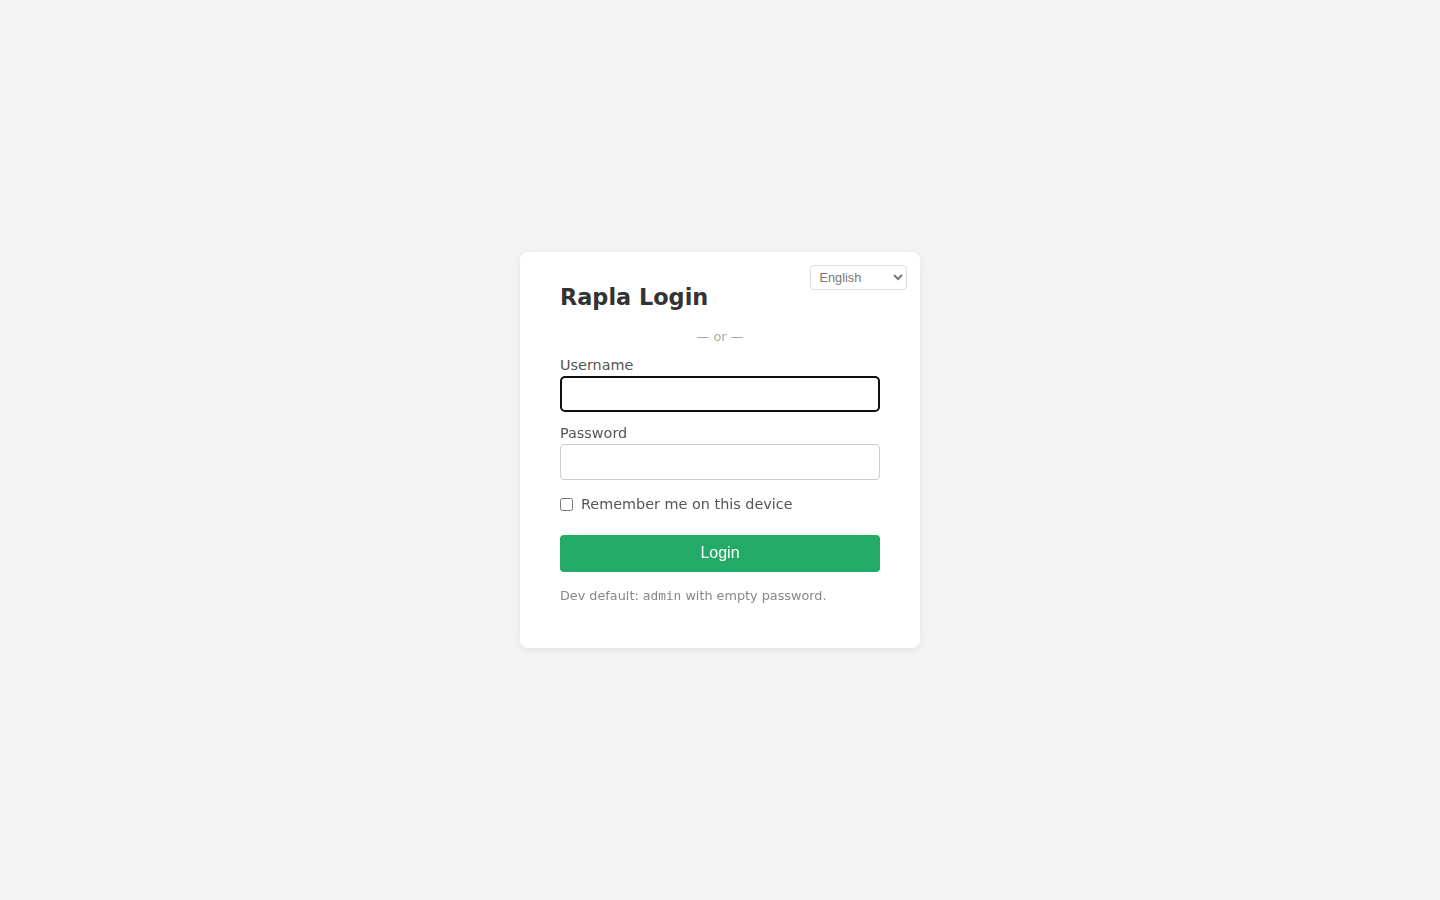
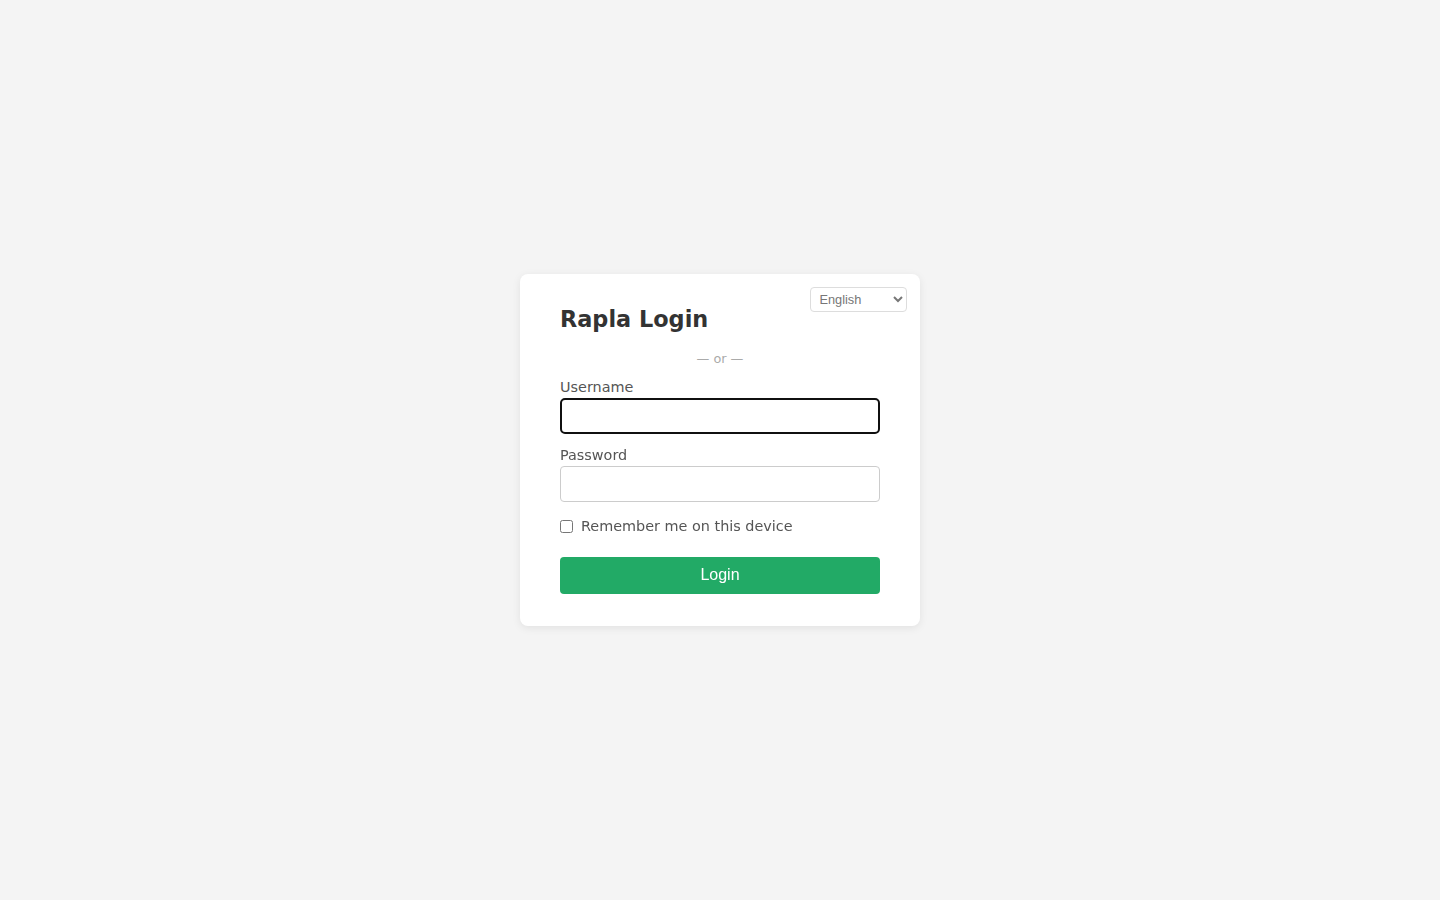
demo: U5 login screenshots re-shot without the dev-default admin hint (PRD 118)
Claude-Session: https://claude.ai/code/session_01ED2XwdzXmTM8Bigam7tRSQ

Changed region(s): [[0.375, 0.4044, 0.625, 0.6844], [0.375, 0.3111, 0.5, 0.3733], [0.5625, 0.28, 0.625, 0.3422]]

diff --git a/docs/demo/features/NOTES.md b/docs/demo/features/NOTES.md
@@ -24,6 +24,8 @@ Events (type `event`, week 2026-09-14):
 
 Stored view `week` (public): copy of builtin `rapla_kalender` with `renderModes: [week, day, table]` and the hidden drag-gate fields (`reservation { id canModify appointmentCount }`, `appointment { id repeating { type } }`, `isException`). Builtin views on master offer no week grid.
 
+Admin password: set to a dummy value on the local data copy only (2026-09-15, via the /change-password nag page), so the login page no longer shows the "Dev default: admin with empty password" hint; login.png, i18n-switch.png and login-providers.png were re-shot after that.
+
 API keys for admin: `Calendar sync` and `Reporting script` (365 days, shown in the API-keys dialog). The Swing auto-login keys `demo-swing` and `demo-swing-cli2` were deleted again after use.
 
 ## Images
